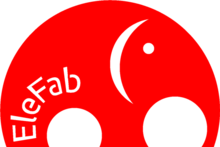
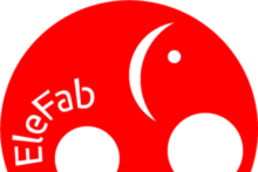
revamp - WIP with Thomas
* Choosing a font (ubuntu)
* Revamp sizing elements

diff --git a/index.html b/index.html
@@ -12,6 +12,7 @@
     <link href="vendor/font-awesome/css/font-awesome.min.css" rel="stylesheet" type="text/css">
     <link href='https://fonts.googleapis.com/css?family=Open+Sans:300italic,400italic,600italic,700italic,800italic,400,300,600,700,800' rel='stylesheet' type='text/css'>
     <link href='https://fonts.googleapis.com/css?family=Merriweather:400,300,300italic,400italic,700,700italic,900,900italic' rel='stylesheet' type='text/css'>
+    <link href="https://fonts.googleapis.com/css?family=Ubuntu" rel="stylesheet" type="text/css">
     <link href="css/elefab.css" rel="stylesheet">
     <!--[if lt IE 9]>
       <script src="https://oss.maxcdn.com/libs/html5shiv/3.7.0/html5shiv.js"></script>
@@ -21,16 +22,15 @@
 
   <body class="bg-white">
     <div id="background"></div>
-    <div class="container-fluid">
+    <div class="container-fluid w-75">
 
-      <div class="row my-2">
+      <div class="row my-5">
         <!-- logo -->
-        <div class="col-md-2 offset-md-1 mr-2">
+        <div class="col-md-2">
           <img src="./img/elefab.png" alt="logo" />
         </div>
-
-        <div class="col-md-6">
-          <h1>Elefab</h1>
+        <div class="col-md-8 offset-md-2">
+          <h1>EleFab</h1>
 
           <h2>Premier fablab de Chambéry</h2>
 
@@ -39,11 +39,11 @@
           soi-même » et ouvert au grand public pour vous permettre de transformer vos
           idées en réalisations concrètes !</p>
 
-          <a href="./presentation.html">En savoir plus +</a>
+          <a href="./presentation.html" class="text-danger text-ubuntu">En savoir plus +</a>
         </div>
       </div>
 
-      <div class="row">
+      <div class="row my-5">
         <!-- visiter & découvrir -->
         <div class="col mx-auto text-center">
           <div class="clickable-elem-container">
@@ -81,20 +81,20 @@
         </div>
       </div>
 
-      <div class="row mt-3">
+      <div class="row my-5">
         <div class="col text-center my-1">
           <div>
-            <a href="https://manager.elefab.org/#!/plans" class="btn btn-outline-danger" style="width: 220px;">Adhérer</a>
+            <a href="https://manager.elefab.org/#!/plans" class="btn btn-outline-danger py-5" style="width: 220px; border-radius: 20px;">Adhérer</a>
           </div>
         </div>
         <div class="col text-center my-1">
           <div>
-            <a href="./actualites.html" class="btn btn-outline-danger" style="width: 220px;">Actualités</a>
+            <a href="./actualites.html" class="btn btn-outline-danger py-5" style="width: 220px; border-radius: 20px;">Actualités</a>
           </div>
         </div>
         <div class="col text-center my-1">
           <div>
-		  <a href="./contacts.html" class="btn btn-outline-danger" style="width: 220px;">Contacts</a>
+		  <a href="./contacts.html" class="btn btn-outline-danger py-5" style="width: 220px; border-radius: 20px;">Contacts</a>
           </div>
         </div>
       </div>
@@ -113,6 +113,9 @@
             </a>
             <a class="btn" href="https://www.instagram.com/elefab73/">
                   <i class="fa fa-2x fa-instagram text-light mr-2"> </i>
+            </a>
+            <a class="btn" href="https://www.youtube.com/channel/UCY1m-bPCqMAcFBHnKCXkp4g">
+                  <i class="fa fa-2x fa-youtube text-light mr-2"> </i>
             </a>
             © 2018 · Association Fablab - Le prototype
   	</p>

diff --git a/css/elefab.css b/css/elefab.css
@@ -1,5 +1,6 @@
 body {
   margin-bottom: 60px; /* Margin bottom by footer height */
+  font-family: 'Ubuntu', sans-serif;
 }
 
 #background {
